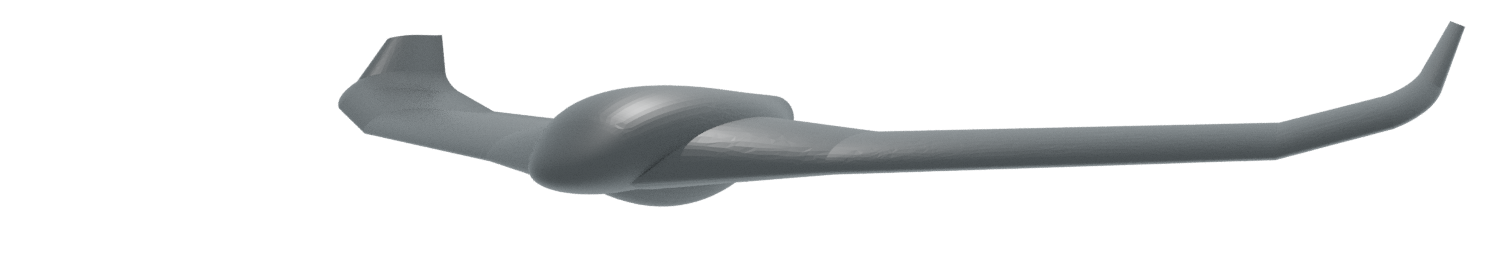
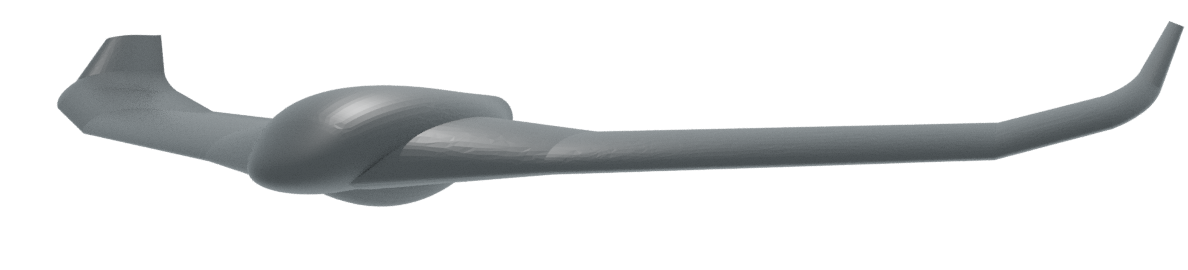
3d visualization fixed!!! Header fixed

diff --git a/assets/3d.js b/assets/3d.js
@@ -5,8 +5,10 @@ var cameras, cameraTarget, sceneInfos, renderers, renderer, controls, mesh, load
 var testing = false;
 
 var start = Date.now();
-var rate = 10; // Hz
+var rate = 30; // Hz
 var lastFrameNumber;
+
+if (testing) {rate = 2;}
 
 // var width = 1;
 // var height = 0.5;
@@ -18,13 +20,18 @@ var createRenderer = function(){
         console.log("Renderer not found, creating new one");
         canvas = document.createElement( 'canvas' );
         canvas.setAttribute("id", "renderCanvas");
-        canvas.style.cssText = "position: fixed; left: 0; top: 0; width: 100vw; height: 100vh; display: block; z-index: -1;"
+        canvas.style.cssText = "position: absolute; left: 0; top: 0; width: 100vw; height: 100vh; display: block; z-index: 999; pointer-events: none"//  border: 5px solid blue; "
         document.body.appendChild( canvas );
+        renderer = new THREE.WebGLRenderer({canvas, alpha: true});
+        renderer.gammaInput = true;
+        renderer.gammaOutput = true;
+
+        renderer.shadowMap.enabled = true;
+        renderer.shadowMap.autoUpdate = true;
+//         renderer.setClearColor( 0x0000ff, 0 );
     }
     else {console.log("Renderer already existing");}
-    
 }
-
 createRenderer();
 
 var resizeRendererToDisplaySize = function(renderer) {
@@ -39,20 +46,13 @@ var resizeRendererToDisplaySize = function(renderer) {
 }
 
 var makeScene = function(div_name, filename, s, x, y, z, phi, theta, psi) {
-    
-//     if (!(controls)){controls = [];}    
-//     if (!(scenes)){scenes = [];}    
-//     if (!(renderers)){renderers = [];}
-//     if (!(cameras)){cameras = [];}    
      
     if (!(sceneInfos)){sceneInfos = [];}   
     
     sceneInfos.push({"scene": undefined, "meshes": [], "camera":undefined, "htmlElement":undefined, "controls":undefined});
     
     sceneInfos[sceneInfos.length - 1].htmlElement =  document.getElementById( div_name );
-    
-//     container = document.createElement( 'div' );
-//     document.body.appendChild( container );
+
     if (testing == true) {
     stats = new Stats();
     sceneInfos[sceneInfos.length - 1].htmlElement.appendChild( stats.dom );
@@ -67,15 +67,15 @@ var makeScene = function(div_name, filename, s, x, y, z, phi, theta, psi) {
     sceneInfos[sceneInfos.length - 1].camera.position.set( 3.5, 1.2, 0 );
 
     sceneInfos[sceneInfos.length - 1].scene = new THREE.Scene();
-    sceneInfos[sceneInfos.length - 1].scene.background = new THREE.Color( 0xff0000);//0x080808 );
-//     if (testing==false){
-//         scenes[scenes.length - 1].fog = new THREE.Fog( 0x000000, 2, 15 );
-//     }
+//     sceneInfos[sceneInfos.length - 1].scene.background = new THREE.Color((testing) ? 0xff0000 : 0x080808 );
+    if (testing==false){
+        sceneInfos[sceneInfos.length - 1].scene.fog = new THREE.Fog( 0x000000, 2, 15 );
+    }
 
     // Ground
     var plane = new THREE.Mesh(
         new THREE.PlaneBufferGeometry( 10000, 10000 ),
-        new THREE.MeshPhongMaterial( { color: 0x00ff00, specular: 0x101010 } ) //0x050505
+        new THREE.MeshPhongMaterial( { color: (testing) ? 0x00ff00 : 0x050505, specular: 0x101010 } ) //0x050505
     );
     plane.rotation.x = - Math.PI / 2;
     plane.position.y = - 0.5;
@@ -91,23 +91,23 @@ var makeScene = function(div_name, filename, s, x, y, z, phi, theta, psi) {
     addShadowedLight( 1.5, 1, - 1, 0xffffff, .5 );
     addShadowedLight( -2, 1, 0, 0xffffff, .5 );
 
-    // renderer
-    renderer = new THREE.WebGLRenderer( { antialias: true, powerPreference: "low-power", } );
-    
-    // PLY file
+//     // renderer
+//     renderer = new THREE.WebGLRenderer( { antialias: true, powerPreference: "low-power", } );
+//     
+//     // PLY file
     load(filename, s, x, y, z, phi, theta, psi);
-    
-    
-    renderer.setPixelRatio( window.devicePixelRatio );
-    renderer.setSize( width, height); // window.innerWidth*width, window.innerHeight*height );
-
-    renderer.gammaInput = true;
-    renderer.gammaOutput = true;
-
-    renderer.shadowMap.enabled = true;
-    renderer.shadowMap.autoUpdate = true;
-
-    sceneInfos[sceneInfos.length - 1].htmlElement.appendChild( renderer.domElement );
+//     
+//     
+//     renderer.setPixelRatio( window.devicePixelRatio );
+//     renderer.setSize( width, height); // window.innerWidth*width, window.innerHeight*height );
+// 
+//     renderer.gammaInput = true;
+//     renderer.gammaOutput = true;
+// 
+//     renderer.shadowMap.enabled = true;
+//     renderer.shadowMap.autoUpdate = true;
+// 
+//     sceneInfos[sceneInfos.length - 1].htmlElement.appendChild( renderer.domElement );
 
     // stats
     // stats = new Stats();
@@ -116,14 +116,15 @@ var makeScene = function(div_name, filename, s, x, y, z, phi, theta, psi) {
     // resize
     window.addEventListener( 'resize', onWindowResize, false );
     
-    sceneInfos[sceneInfos.length - 1].controls = new THREE.OrbitControls( sceneInfos[sceneInfos.length - 1].camera, renderer.domElement, sceneInfos[sceneInfos.length - 1].htmlElement
+    sceneInfos[sceneInfos.length - 1].controls = new THREE.OrbitControls( sceneInfos[sceneInfos.length - 1].camera, document.getElementById( div_name ), sceneInfos[sceneInfos.length - 1].htmlElement
     );
 
     sceneInfos[sceneInfos.length - 1].controls.addEventListener( 'change', render );
 //     sceneInfos[sceneInfos.length - 1].controls.update();
     sceneInfos[sceneInfos.length - 1].controls.autoRotate = true;
-//     sceneInfos[sceneInfos.length - 1].controls.autoRotateSpeed = 1;
-//     sceneInfos[sceneInfos.length - 1].controls.target.set( 0, 0, 0 );  
+    sceneInfos[sceneInfos.length - 1].controls.autoRotateSpeed = 1;
+    sceneInfos[sceneInfos.length - 1].controls.target.set( 0, 0.5, 0 );  
+    resizeRendererToDisplaySize(renderer);
 };
 
 function load(filename, s, x,y,z, phi, theta, psi) {
@@ -242,35 +243,12 @@ function addShadowedLight( x, y, z, color, intensity ) {
 
 }
 
+function onWindowResize() { resizeRendererToDisplaySize(renderer); }
 
-function onWindowResize() {
-//     console.log(container.offsetWidth,container.offsetHeight);
-// //     width = container.offsetWidth;
-// //     height = container.offsetHeight;
-// // 
-// //     camera.aspect = width / height;
-// //     camera.updateProjectionMatrix();
-// //     renderer.setSize( width, height);
-// 				x = window.innerWidth *width;
-//                 console.log(x);
-// 				y = window.innerHeight *height;
-//                 console.log(y);
-// 
-// 				camera.aspect = window.innerWidth*width / (window.innerHeight*height);
-// 				camera.updateProjectionMatrix();
-// 
-// 				renderer.setSize( x, y);
-    resizeRendererToDisplaySize(renderer);
-
-			}
-			
 function renderScene(sceneInfo){
 //     console.log("Scene Info", sceneInfo);
     const {left, right, top, bottom, width, height} = sceneInfo.htmlElement.getBoundingClientRect();
-    if (testing==true){
-        console.log(left, right, top, bottom, width, height);
-    }
-//     console.log(sceneInfo.htmlElement.getBoundingClientRect());
+    if (testing==true){ console.log(left, right, top, bottom, width, height);}
     const isOffscreen =
         bottom < 0 ||
         top > renderer.domElement.clientHeight ||
@@ -282,7 +260,8 @@ function renderScene(sceneInfo){
     sceneInfo.camera.aspect = width / height;
     sceneInfo.camera.updateProjectionMatrix();
  
-    const positiveYUpBottom = bottom - height; //canvasRect.height - bottom;
+    const positiveYUpBottom = renderer.domElement.clientHeight - bottom;
+    if (testing) console.log(left, positiveYUpBottom, width, height);
     renderer.setScissor(left, positiveYUpBottom, width, height);
     renderer.setViewport(left, positiveYUpBottom, width, height);
     renderer.render(sceneInfo.scene, sceneInfo.camera);
@@ -291,8 +270,8 @@ function renderScene(sceneInfo){
 
 function render(time) {
 //     time *= 0.001;
-//     const transform = `translateY(${window.scrollY}px)`;
-//     renderer.domElement.style.transform = transform;
+    const transform = `translateY(${window.scrollY}px)`;
+    renderer.domElement.style.transform = transform;
 
     var elapsed = Date.now() - start;
     var frameNumber = Math.round(elapsed/(1000/rate));
@@ -305,8 +284,6 @@ function render(time) {
     }
     lastFrameNumber = frameNumber;
     
-    resizeRendererToDisplaySize(renderer);
-    
     renderer.setScissorTest(false);
     renderer.clear(true, true);
     renderer.setScissorTest(true);
@@ -314,19 +291,6 @@ function render(time) {
         renderScene(sceneInfo);
     }
     requestAnimationFrame(render);
-    stats.update();
+    if (testing) stats.update();
 }
 
-// function animate() {    
-//     if (testing == true) {
-//     stats.update();
-//     };
-//     for (i=0; i<sceneInfos.length; i++){
-//         render(sceneInfos[i]);
-// //         requestAnimationFrame( animate );
-// 
-// //         renderer.render( sceneInfos[i].scene, sceneInfos[i].camera );
-// //     controls[i].update()
-//     }
-// 
-// }

diff --git a/_posts/2019-11-27-Wing-With-Cutouts.md b/_posts/2019-11-27-Wing-With-Cutouts.md
@@ -10,8 +10,8 @@ categories: Basic Test
 
 [Wing Segment](https://raw.githubusercontent.com/mpsdskd/3D-Print-Plane/master/3d-test/1_Test_wing.obj)
 <dl>
-    <div id="mycanvas1" style="position:absolute; background-color:#000; left:0; height:50vh; width:100%"> </div>
-   <div style="position:relative; height:50vh; width:0px"></div>
+    <div id="mycanvas1" style="position:absolute; background-color:#000000; left:0; height:50vh; width:100%"> </div>
+    <div style="position:relative; height:50vh; width:0px"></div>
     <script src = "/assets/3js/three.js"></script>
     <script src = "/assets/3d.js"></script> 
     <script src = "/assets/3js/OrbitControls.js"></script>
@@ -20,11 +20,9 @@ categories: Basic Test
     <script src = "/assets/3js/OBJLoader.js"></script>
     <script src = "/assets/3js/stats.js"></script>
     <script>
-        makeScene("mycanvas1", "https://raw.githubusercontent.com/mpsdskd/3D-Print-Plane/master/3d-test/4_Test_wing_with_cutouts.obj", 0.008, -1,-1.2,0, -Math.PI/2,0,0); 
+        makeScene("mycanvas1", "https://raw.githubusercontent.com/mpsdskd/3D-Print-Plane/master/3d-test/4_Test_wing_with_cutouts.obj", 0.01, -1,-1.4,0, -Math.PI/2,0,0); 
         render();
     </script>
 </dl>
 
 
-
-<sub><sub><sub> Also I wanted to test/show off my 3D part visualization

diff --git a/_posts/2019-11-26-3d-test.md b/_posts/2019-11-26-3d-test.md
@@ -12,7 +12,7 @@ For hand launch, my personal insurance and the plane's general ability to fly se
 
 [Wing Segment](https://raw.githubusercontent.com/mpsdskd/3D-Print-Plane/master/3d-test/1_Test_wing.obj)
 <dl>
-    <div id="mycanvas" style="position:absolute; background-color:#000; left:0; height:50vh; width:100%"> </div>
+    <div id="mycanvas" style="position:absolute; background-color:#000000; left:0; height:50vh; width:100%"> </div>
    <div style="position:relative; height:50vh; width:0px"></div>
     <script src = "/assets/3js/three.js"></script>
     <script src = "/assets/3d.js"></script> 
@@ -22,7 +22,7 @@ For hand launch, my personal insurance and the plane's general ability to fly se
     <script src = "/assets/3js/OBJLoader.js"></script>
     <script src = "/assets/3js/stats.js"></script>
     <script>
-        makeScene("mycanvas", "https://raw.githubusercontent.com/mpsdskd/3D-Print-Plane/master/3d-test/1_Test_wing.obj", 0.008, -1,-1.2,0, -Math.PI/2,0,0); 
+        makeScene("mycanvas", "https://raw.githubusercontent.com/mpsdskd/3D-Print-Plane/master/3d-test/1_Test_wing.obj", 0.01, 0,-1.4,0,    -Math.PI/2,0,0); 
         render();
     </script>
 </dl>
